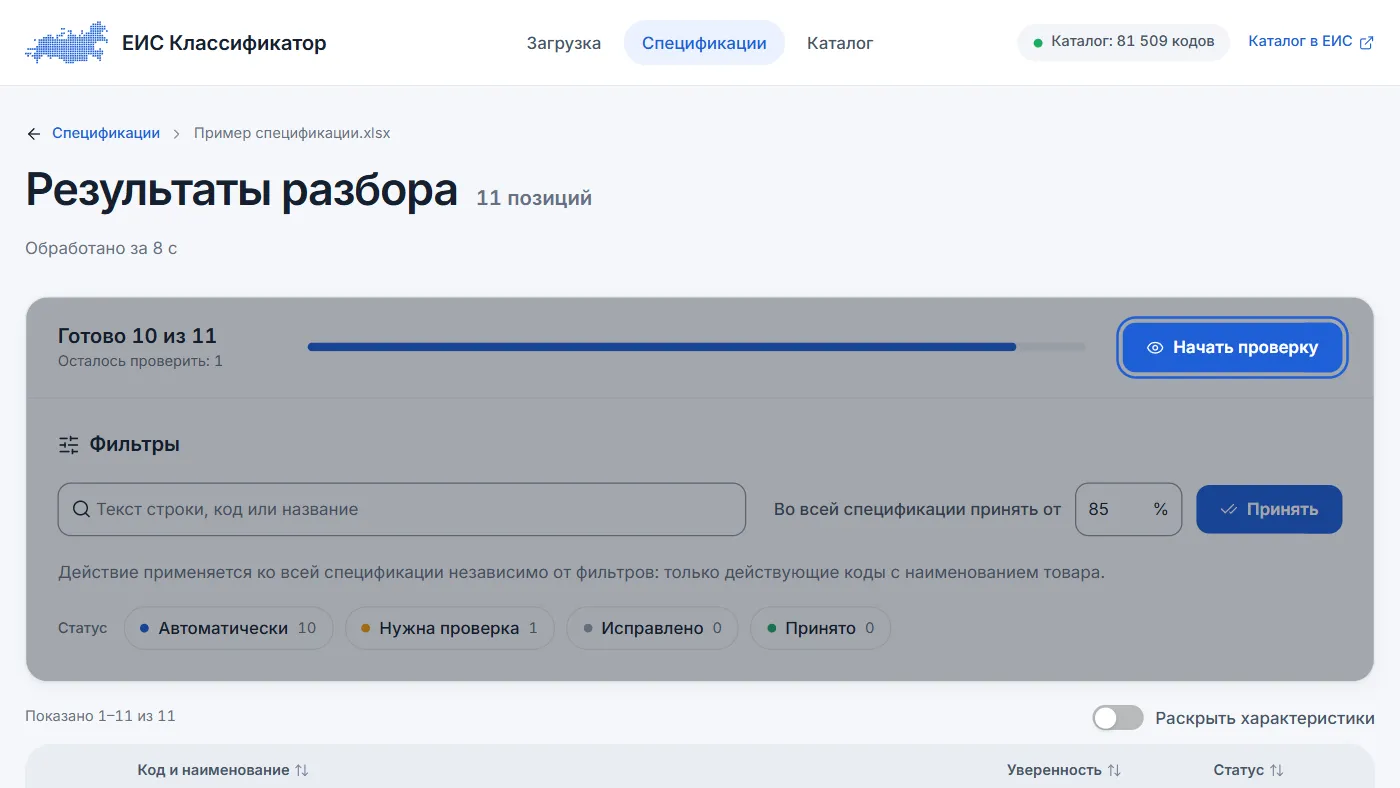
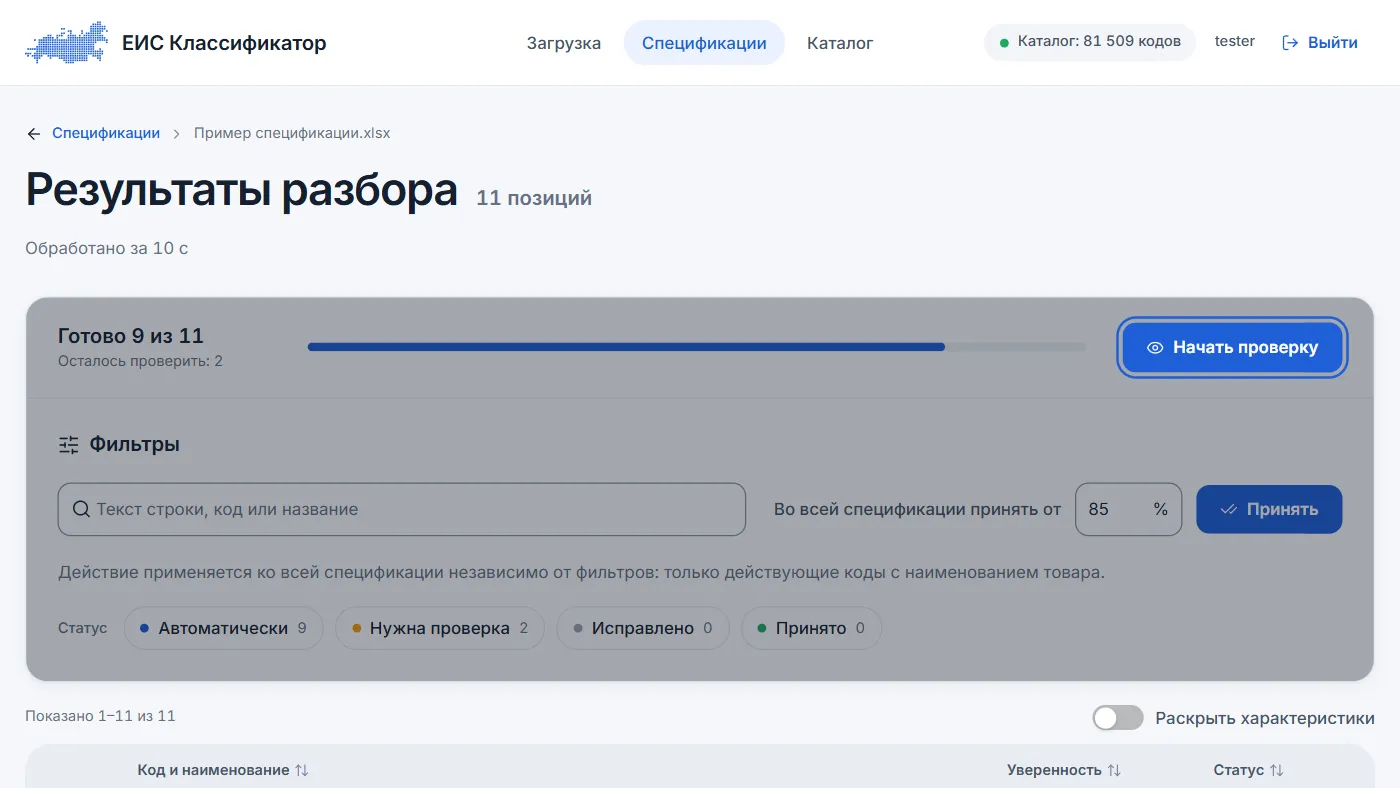
Frontend: the EIS link hides below 1440 px, the tour is shot after a login
With the login and «Выйти» in the header, «Каталог в ЕИС» wrapped into two
lines at 1280 px. scripts/tour-shots.mjs logs in with TOUR_LOGIN and
TOUR_PASSWORD; the tour pictures are new.

diff --git a/frontend/src/theme.css b/frontend/src/theme.css
@@ -769,6 +769,7 @@ a {
 
 .eis-link {
   display: inline-flex;
+  white-space: nowrap;
   align-items: center;
   gap: 6px;
   font-size: var(--text-sm);
@@ -2550,7 +2551,10 @@ a {
     padding-left: var(--s6);
     padding-right: var(--s6);
   }
+}
 
+/* the login and «Выйти» take the room of the link to the EIS catalog on a laptop screen */
+@media (max-width: 1440px) {
   .eis-link {
     display: none;
   }
